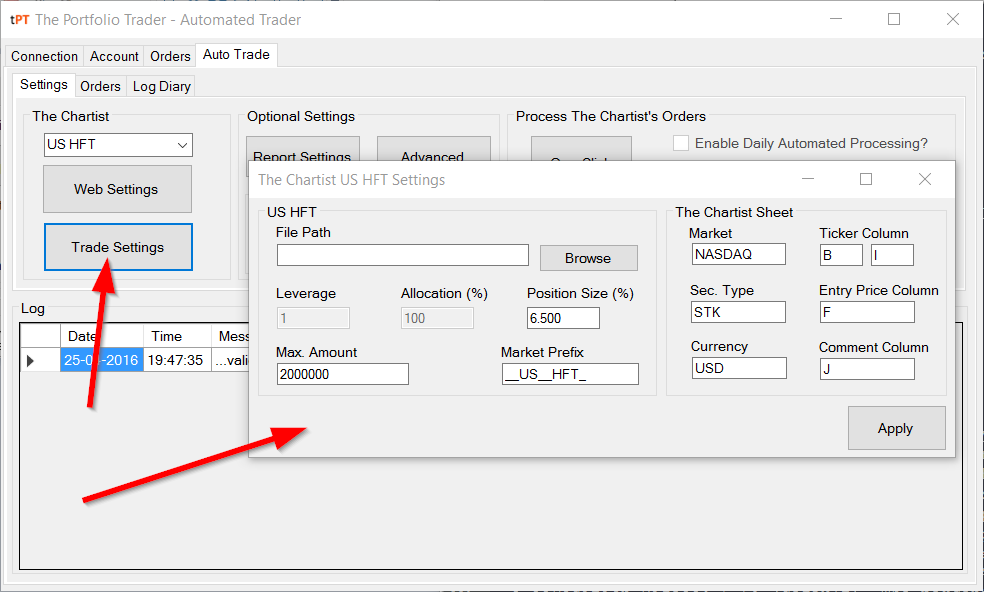
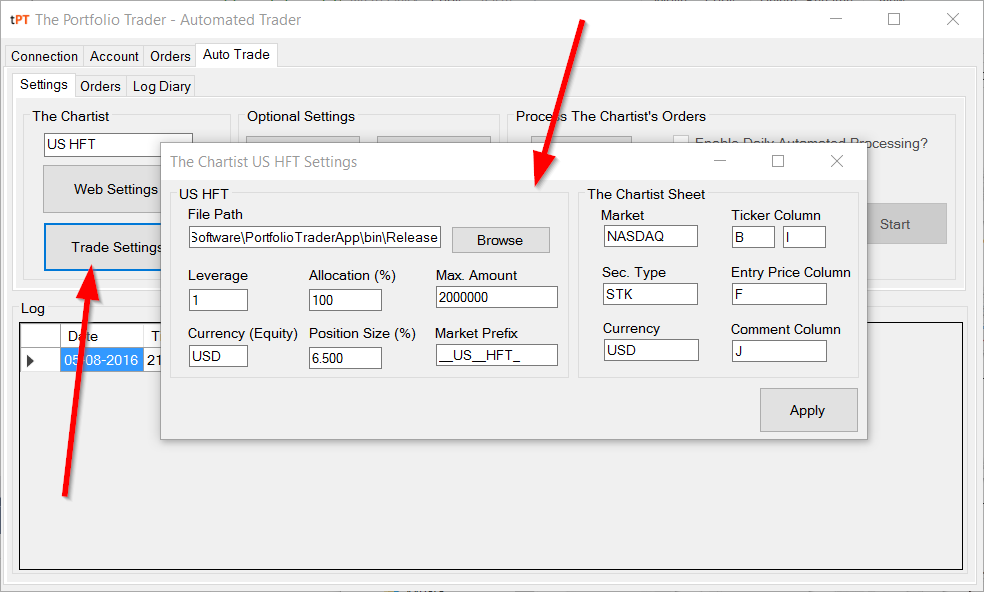
* updates

Changed region(s): [[0.061, 0.0304, 0.9756, 0.8514]]

diff --git a/README.md b/README.md
@@ -10,6 +10,7 @@ Automated Trader for The Chartist
 * Facility to handle multiple trading accounts
 * Always in-sync with Interactive Brokers servers
 * Ease of use
+* Host of customisable options
 * One click process for downloading, processing, placing and reporting of **The Chartist**'s [US Power Setups](https://www.thechartist.com.au/Benefits/short-term-share-trading.html) (activation license key required)
 * Active monitoring of placed orders (useful if you are using Margin account)
 * Order Shuffling (useful if you are using Non-Margin account)
@@ -171,7 +172,7 @@ This provides an user-interface to alter settings for trading using [**The Chart
 	
 * **Trade Settings** [The Chartist]
    * Set paths for downloaded files
-   * Manage your trade details such as exchange, position size, margin, etc.
+   * Manage your trade settings for strategy such as leverage, position size, equity currency, etc.
 <br>
 
 * **Report Settings** [Optional Settings]
@@ -194,7 +195,7 @@ This provides an user-interface to alter settings for trading using [**The Chart
 <br>
 
 * **Orders, Log Diary and Log**
-	* List of day's orders and log diary of orders
+	* Order managerment details, list of day's orders and log diary of orders
 	* Process log to keep you up-to-date on the current process pipeline
  
  
@@ -203,7 +204,7 @@ This provides an user-interface to alter settings for trading using [**The Chart
 <br>
 * **Safety Checks & Intelligent Features**
 	* [The Chartist](https://www.thechartist.com.au)'s trades are never processed more than once
-	* Account capital is always retrieved based on the currency settings
+	* Account capital is always retrieved based on the equity currency settings i.e. you could trade with your AUD equity on NASDAQ directly 
 	* Check for duplicate orders
 	* BUY order will not be placed if an OPEN position already exists in your portfolio
 	* SELL order will not placed if an OPEN position does not exist in your portfolio (No Short Selling)
@@ -406,7 +407,7 @@ The login and password provided here will be used to login to https://www.thecha
 
 
 ### Auto Trade: Trade Settings 
-The data provided in this setting will be used by auto-trader for determining your choice of security type, exchange, position size, etc.
+The data provided in this setting will be used by auto-trader for determining your choice of position size, equity currency, leverage, etc.
 These settings need to be set once and are saved locally for future use. 
 
 <br>
@@ -422,7 +423,9 @@ These settings need to be set once and are saved locally for future use.
   * **Leverage**: 1.0 (default). The leverage/margin you wish to use.
   * **Allocation**: 100% (default). The percentage of capital you wish to auto-trade with. For example, if you have USD 100K, and set **Allocation** as 60%, then only USD 60K will be used for auto-trade
   * **Position Size**: 6.5% (default). The percentage of allocated capital per position
+  * **Currency (Equity)**: Currency to be used to determine liquidation equity or capital for trading
   * **Max. Amount**: 2000000 (default). Any high number you wish, this is used to make sure no *crazy* orders are placed on the market
+  * **Market Prefix**: File prefix used by The Chartist for respective strategies
   * **The Chartist Sheet**: Do not change these settings, these are supposed to be constants for each strategy
      * **Market**:  NASDAQ( default). The exchange this auto-trade will be working on
      * **Currency**: USD (default). The currency this auto-trade will be utilising
@@ -433,7 +436,7 @@ These settings need to be set once and are saved locally for future use.
 
 >**Note**:
 >* Do not change settings under **The Chartist Sheet**, automated trader will not work if you change this setting
->* Standard Contract and Order attributes for trading [US Power Setups]() (both Original and HFT) is stored locally on your computer. They can be viewed by opening either _utilities/sys.xml_ or _utilities/hft.xml_ using a word-processor
+>* Standard Contract and Order attributes for trading [US Power Setups]() (both Original and HFT) is stored locally on your computer. They can be viewed by opening either _utilities/oriSet.xml_ or _utilities/hftSet.xml_ For US Original and US HFT , resectively, using a word-processor
 >* Every time **Apply** is clicked, the settings are saved for future use
 
 
